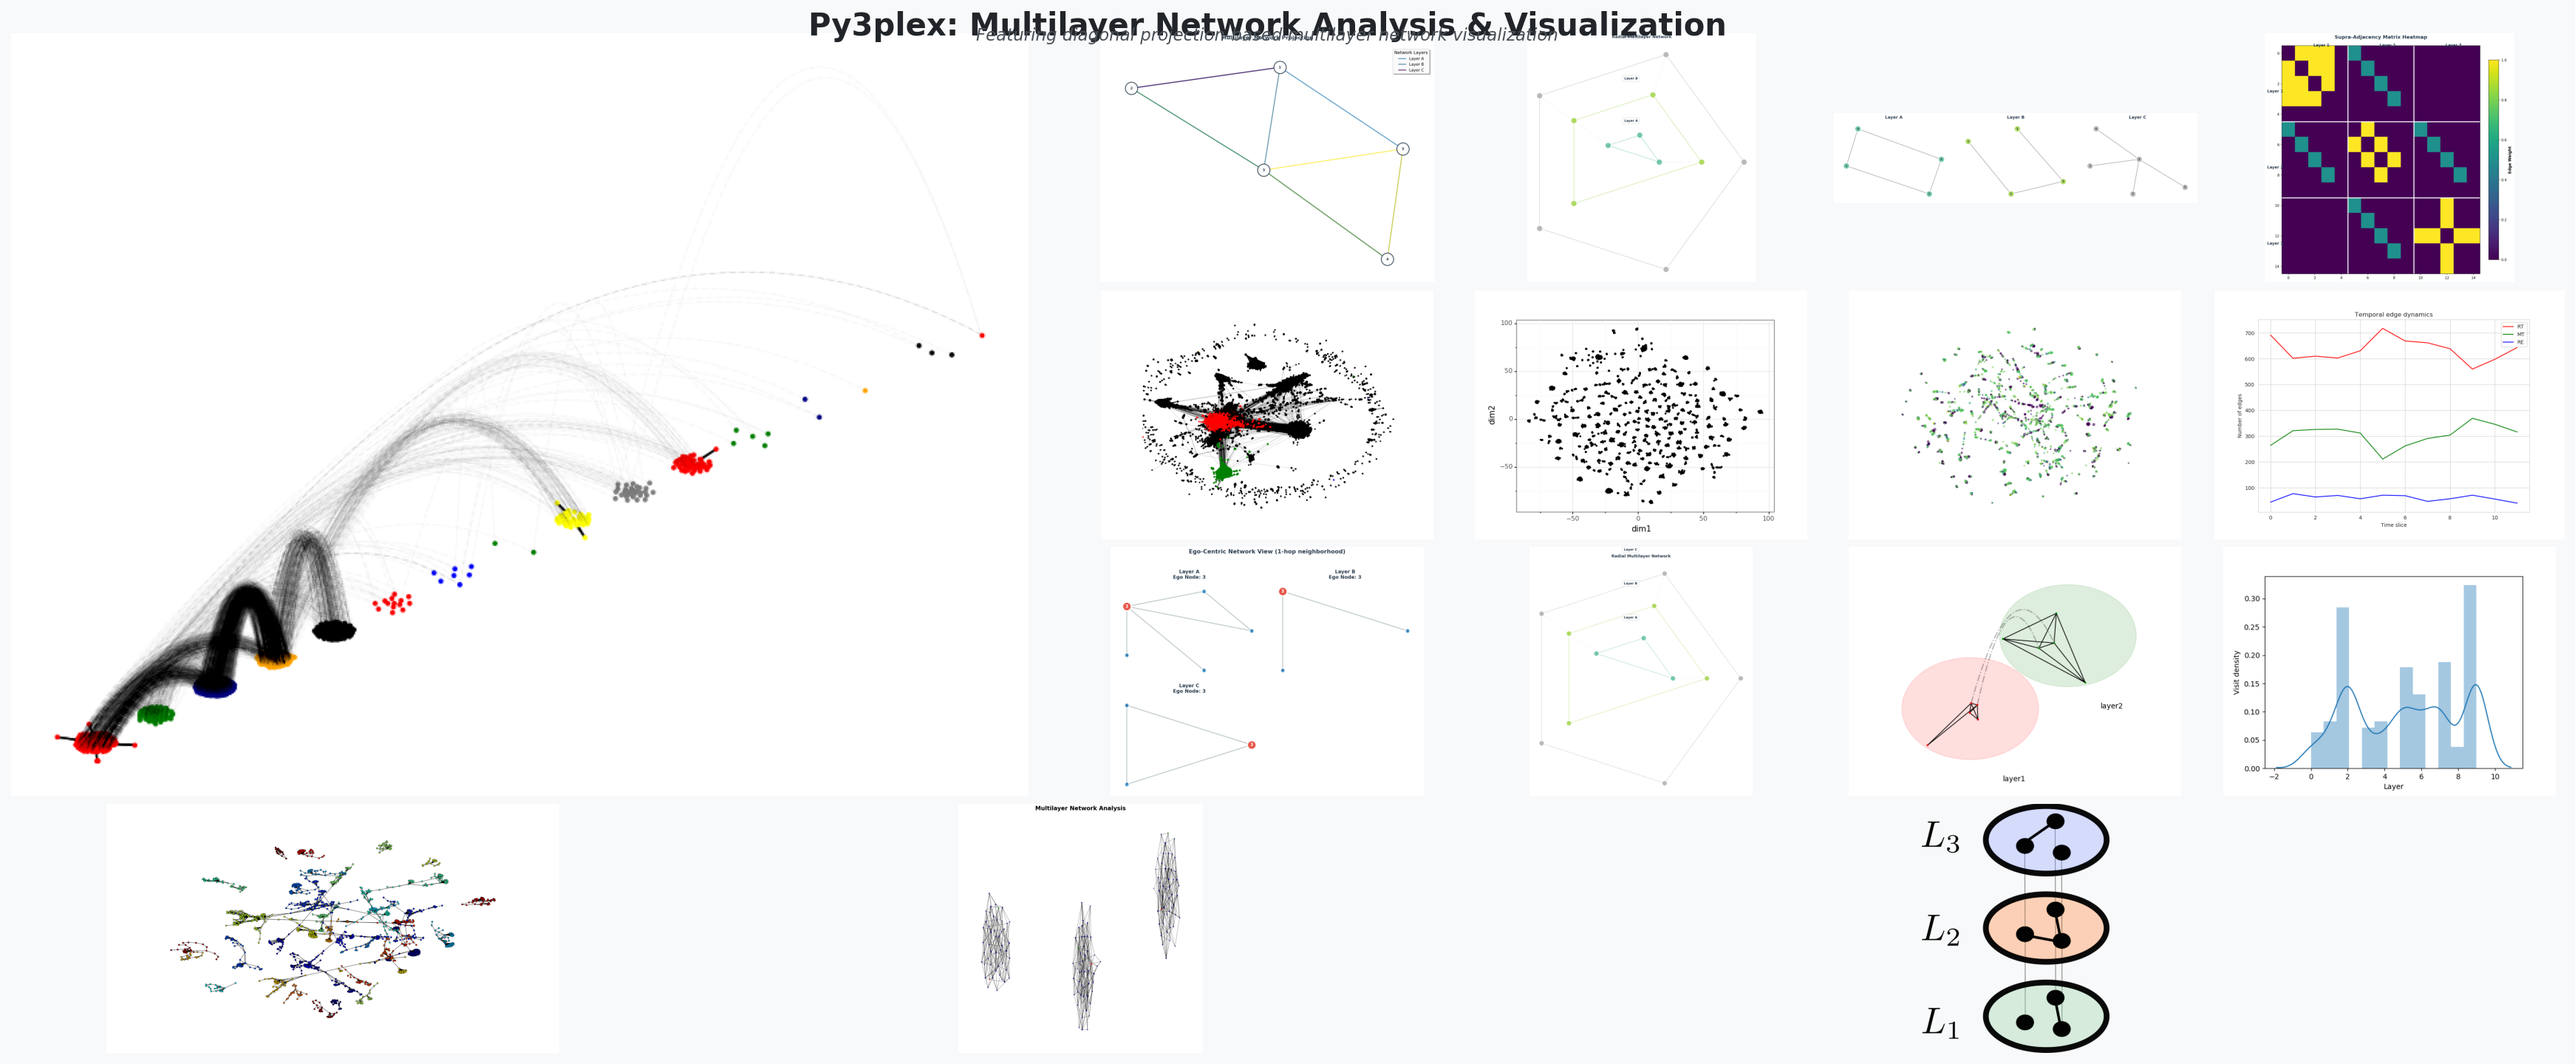
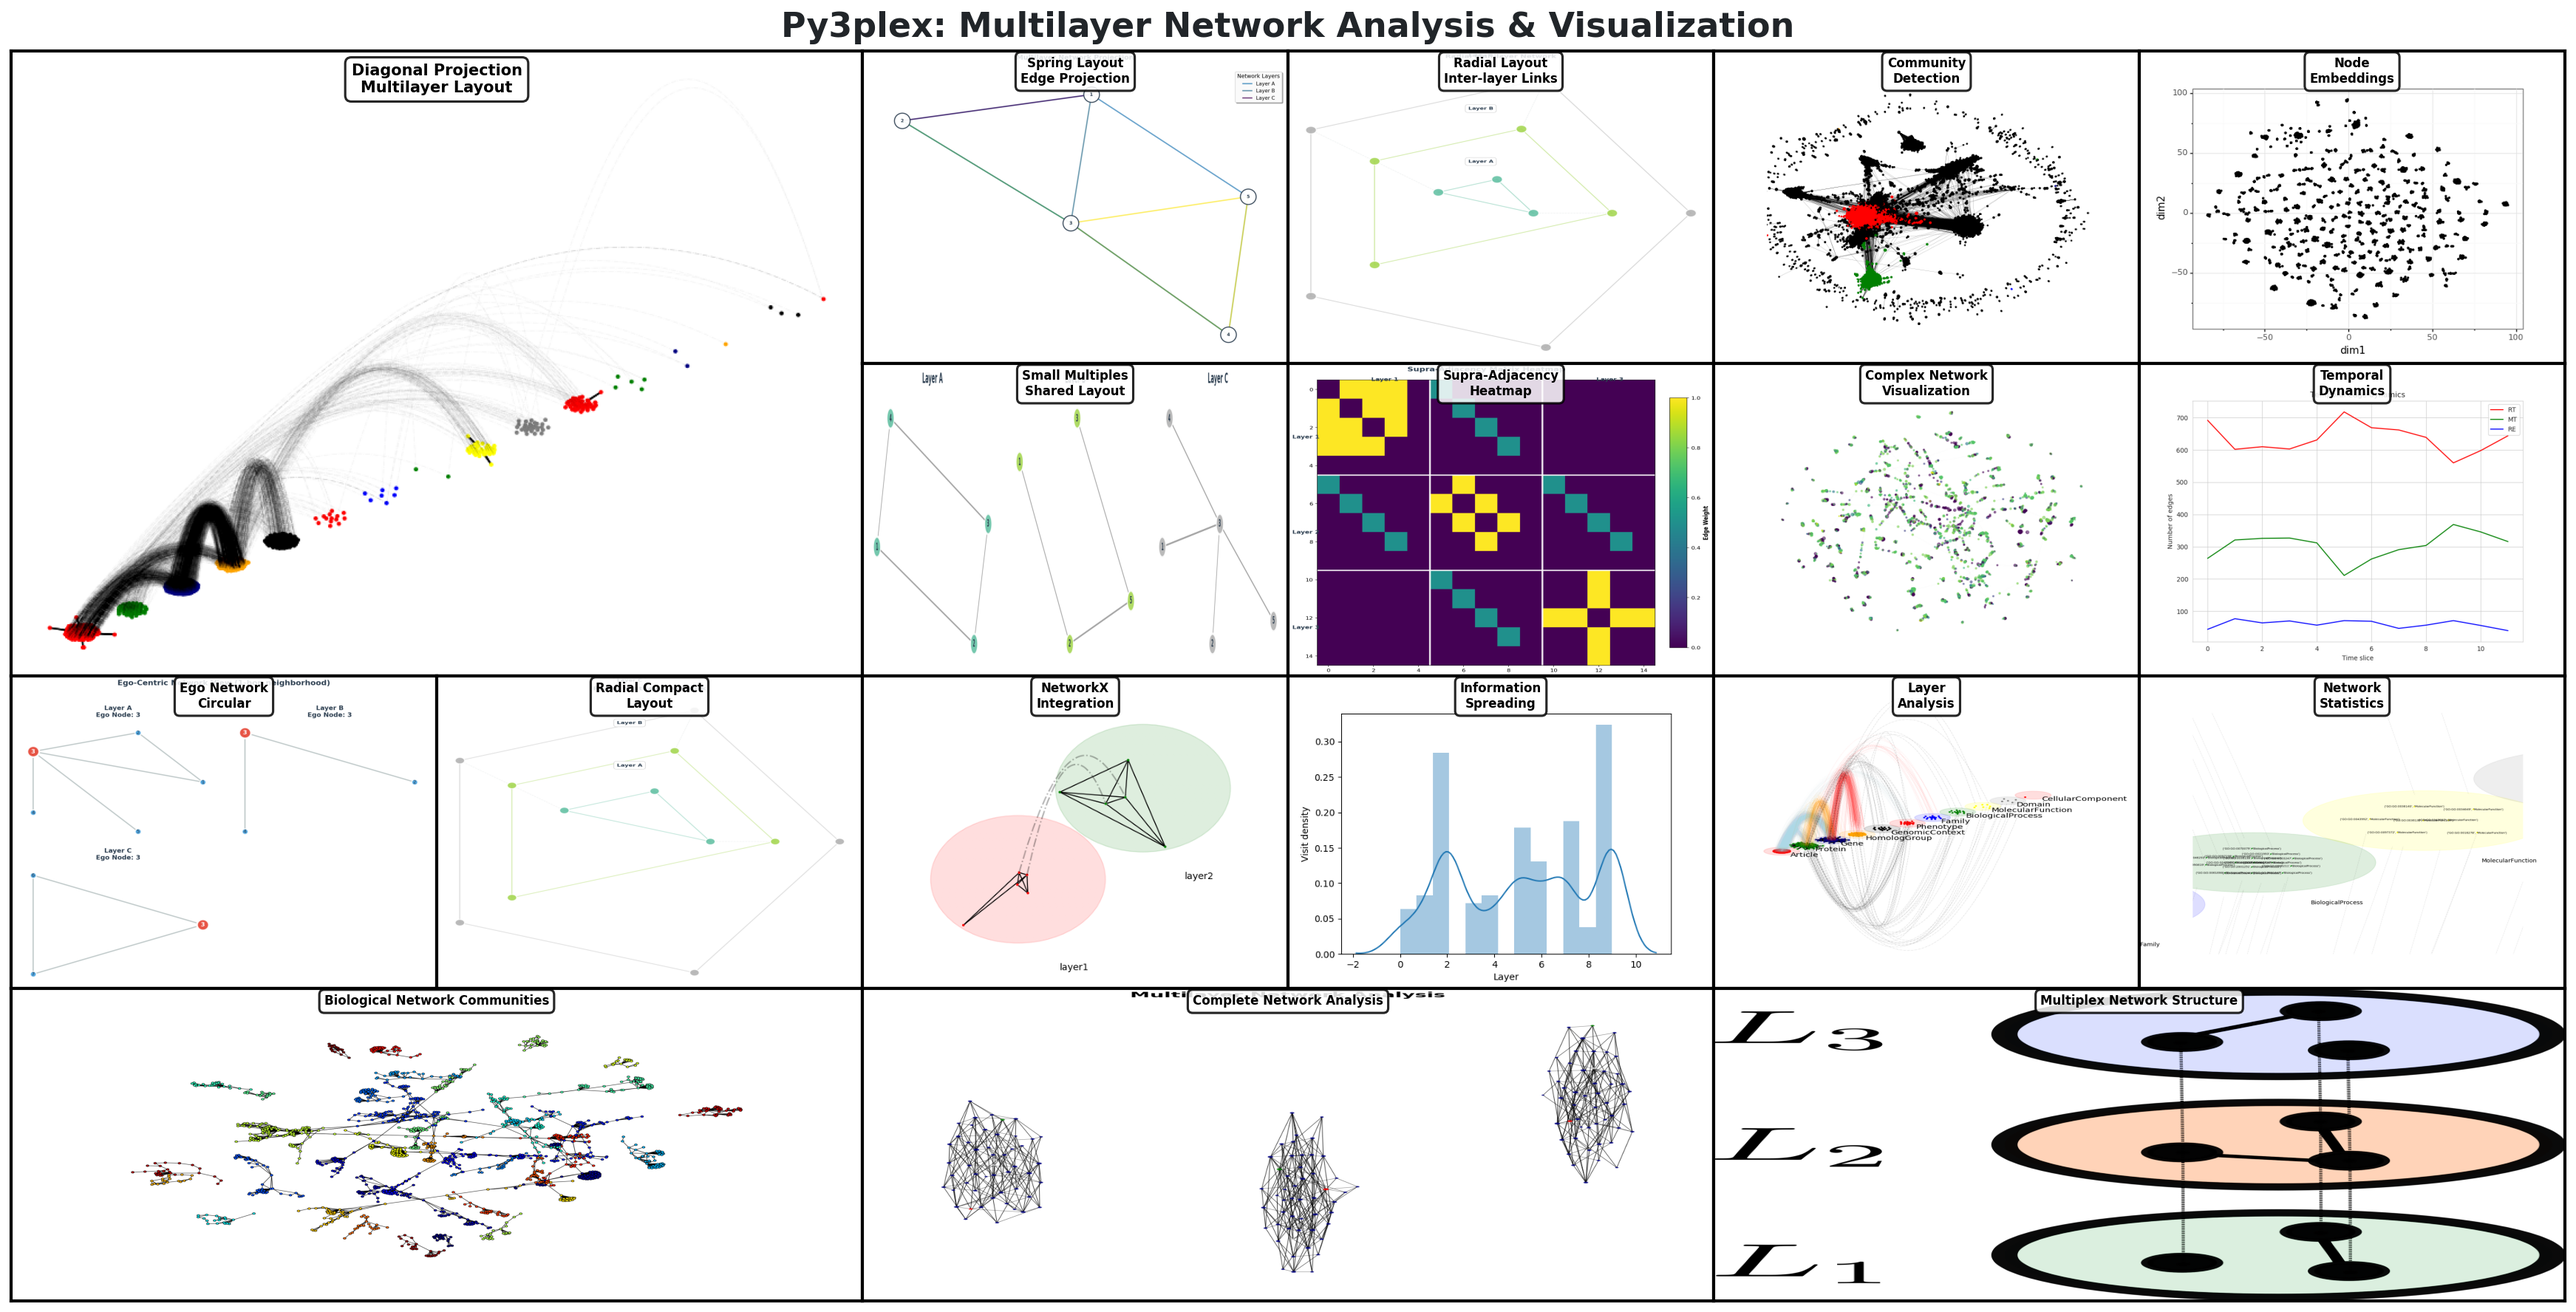
Apply feedback: uniform tiles, no spacing, black borders, 2x diagonal, descriptions

diff --git a/create_mosaic_banner.py b/create_mosaic_banner.py
@@ -173,50 +173,50 @@ def create_compact_banner():
 
 
 def create_showcase_collage():
-    """Create a sophisticated showcase collage with diagonal layout featured prominently."""
+    """Create a showcase collage with uniform tiles, no spacing, black borders, and descriptions."""
     
     base_dir = "/home/runner/work/py3plex/py3plex/example_images"
     
-    # Create a figure with custom layout emphasizing the diagonal layout
-    fig = plt.figure(figsize=(24, 10), facecolor='#f8f9fa')
+    # Create a figure with white background
+    fig = plt.figure(figsize=(24, 12), facecolor='white')
     
-    # Create a custom grid with tighter spacing and diagonal layout as hero
-    # Reduced spacing: wspace and hspace from 0.08 to 0.03
-    gs = GridSpec(4, 7, figure=fig, wspace=0.03, hspace=0.03,
-                  left=0.01, right=0.99, top=0.96, bottom=0.04)
+    # Create a grid with NO spacing between tiles
+    # 4 rows x 6 columns: diagonal takes 2x2 (4 tiles), others are 1x1
+    gs = GridSpec(4, 6, figure=fig, wspace=0, hspace=0,
+                  left=0.02, right=0.98, top=0.96, bottom=0.02)
     
-    # Define layout: (row_start, row_end, col_start, col_end, image_name)
-    # Featured: diagonal/multilayer visualization takes prominent center-left position
+    # Define layout: (row_start, row_end, col_start, col_end, image_name, description)
     layout = [
-        # HERO: Large diagonal layout visualization (featured prominently)
-        (0, 3, 0, 3, "multilayer.png"),
+        # HERO: Diagonal projection (2x2 = 4 tiles, making it 2x bigger than 1x1 tiles)
+        (0, 2, 0, 2, "multilayer.png", "Diagonal Projection\nMultilayer Layout"),
         
-        # Secondary visualizations - compact grid on right
-        # Top row - different multilayer visualization styles
-        (0, 1, 3, 4, "multilayer_edge_projection_spring.png"),
-        (0, 1, 4, 5, "multilayer_radial_with_inter.png"),
-        (0, 1, 5, 6, "multilayer_small_multiples_shared.png"),
-        (0, 1, 6, 7, "multilayer_supra_heatmap_inter.png"),
+        # Row 1 - right side
+        (0, 1, 2, 3, "multilayer_edge_projection_spring.png", "Spring Layout\nEdge Projection"),
+        (0, 1, 3, 4, "multilayer_radial_with_inter.png", "Radial Layout\nInter-layer Links"),
+        (0, 1, 4, 5, "communities.png", "Community\nDetection"),
+        (0, 1, 5, 6, "embedding.png", "Node\nEmbeddings"),
         
-        # Middle row - analysis visualizations
-        (1, 2, 3, 4, "communities.png"),
-        (1, 2, 4, 5, "embedding.png"),
-        (1, 2, 5, 6, "hairball.png"),
-        (1, 2, 6, 7, "temporal.png"),
+        # Row 2 - right side
+        (1, 2, 2, 3, "multilayer_small_multiples_shared.png", "Small Multiples\nShared Layout"),
+        (1, 2, 3, 4, "multilayer_supra_heatmap_inter.png", "Supra-Adjacency\nHeatmap"),
+        (1, 2, 4, 5, "hairball.png", "Complex Network\nVisualization"),
+        (1, 2, 5, 6, "temporal.png", "Temporal\nDynamics"),
         
-        # Bottom row - compact secondary images
-        (2, 3, 3, 4, "multilayer_ego_circular.png"),
-        (2, 3, 4, 5, "multilayer_radial_compact.png"),
-        (2, 3, 5, 6, "networkx_wrapper.png"),
-        (2, 3, 6, 7, "spreading.png"),
+        # Row 3 - full width
+        (2, 3, 0, 1, "multilayer_ego_circular.png", "Ego Network\nCircular"),
+        (2, 3, 1, 2, "multilayer_radial_compact.png", "Radial Compact\nLayout"),
+        (2, 3, 2, 3, "networkx_wrapper.png", "NetworkX\nIntegration"),
+        (2, 3, 3, 4, "spreading.png", "Information\nSpreading"),
+        (2, 3, 4, 5, "part1.png", "Layer\nAnalysis"),
+        (2, 3, 5, 6, "part2.png", "Network\nStatistics"),
         
-        # Bottom row spanning full width - wider analysis examples
-        (3, 4, 0, 2, "biomine_community.png"),
-        (3, 4, 2, 4, "complete_analysis.png"),
-        (3, 4, 4, 7, "multiplex.png"),
+        # Row 4 - full width
+        (3, 4, 0, 2, "biomine_community.png", "Biological Network Communities"),
+        (3, 4, 2, 4, "complete_analysis.png", "Complete Network Analysis"),
+        (3, 4, 4, 6, "multiplex.png", "Multiplex Network Structure"),
     ]
     
-    for row_start, row_end, col_start, col_end, img_name in layout:
+    for row_start, row_end, col_start, col_end, img_name, description in layout:
         img_path = os.path.join(base_dir, img_name)
         
         if not os.path.exists(img_path):
@@ -227,31 +227,44 @@ def create_showcase_collage():
         
         try:
             img = mpimg.imread(img_path)
-            ax.imshow(img)
-            ax.axis('off')
+            ax.imshow(img, aspect='auto')  # Use 'auto' to fill the tile uniformly
+            ax.axis('on')  # Turn on axis to show borders
             
-            # Add subtle border only for hero image to emphasize it
-            if img_name == "multilayer.png":
-                for spine in ax.spines.values():
-                    spine.set_edgecolor('#0066cc')
-                    spine.set_linewidth(3)
+            # Add BLACK borders to all tiles
+            for spine in ax.spines.values():
+                spine.set_edgecolor('black')
+                spine.set_linewidth(2)
+            
+            # Remove tick marks
+            ax.set_xticks([])
+            ax.set_yticks([])
+            
+            # Add description bubble (text box) at the top of each tile
+            ax.text(0.5, 0.98, description,
+                   transform=ax.transAxes,
+                   fontsize=8 if (row_end - row_start) == 1 else 10,
+                   weight='bold',
+                   ha='center',
+                   va='top',
+                   bbox=dict(boxstyle='round,pad=0.4',
+                           facecolor='white',
+                           edgecolor='black',
+                           linewidth=1.5,
+                           alpha=0.85))
             
         except Exception as e:
             print(f"Error processing {img_path}: {e}")
             ax.axis('off')
     
-    # Add title with emphasis on diagonal layout feature
-    fig.text(0.5, 0.98, 'Py3plex: Multilayer Network Analysis & Visualization',
-             ha='center', va='top', fontsize=20, weight='bold',
+    # Add title
+    fig.text(0.5, 0.99, 'Py3plex: Multilayer Network Analysis & Visualization',
+             ha='center', va='top', fontsize=22, weight='bold',
              color='#212529')
-    fig.text(0.5, 0.965, 'Featuring diagonal projection-based multilayer network visualization',
-             ha='center', va='top', fontsize=11, style='italic',
-             color='#495057')
     
     # Save the showcase
     output_path = os.path.join(base_dir, "py3plex_showcase.png")
     plt.savefig(output_path, dpi=150, bbox_inches='tight',
-                facecolor='#f8f9fa', edgecolor='none')
+                facecolor='white', edgecolor='none')
     print(f"✓ Showcase collage created: {output_path}")
     
     plt.close()
